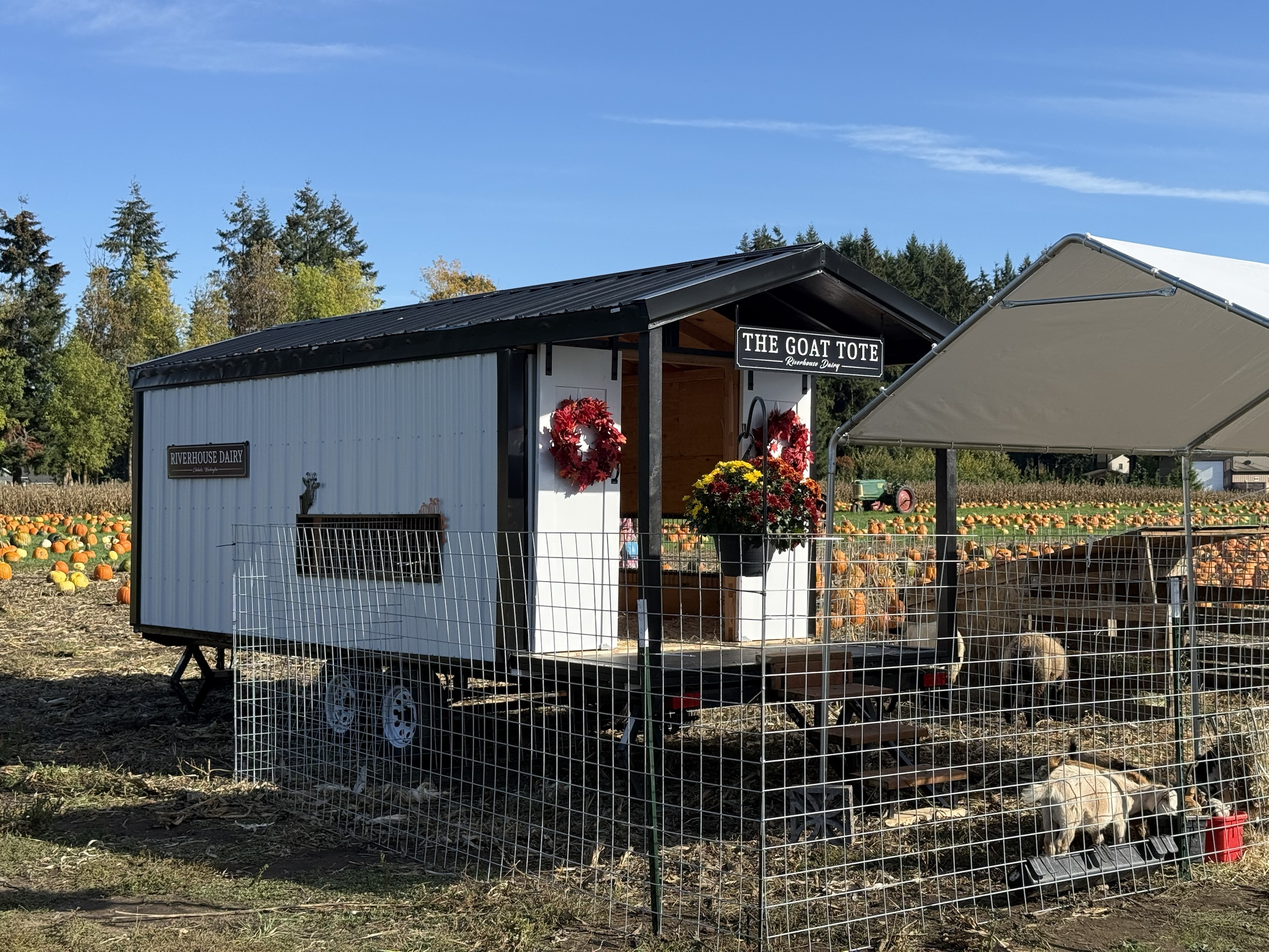
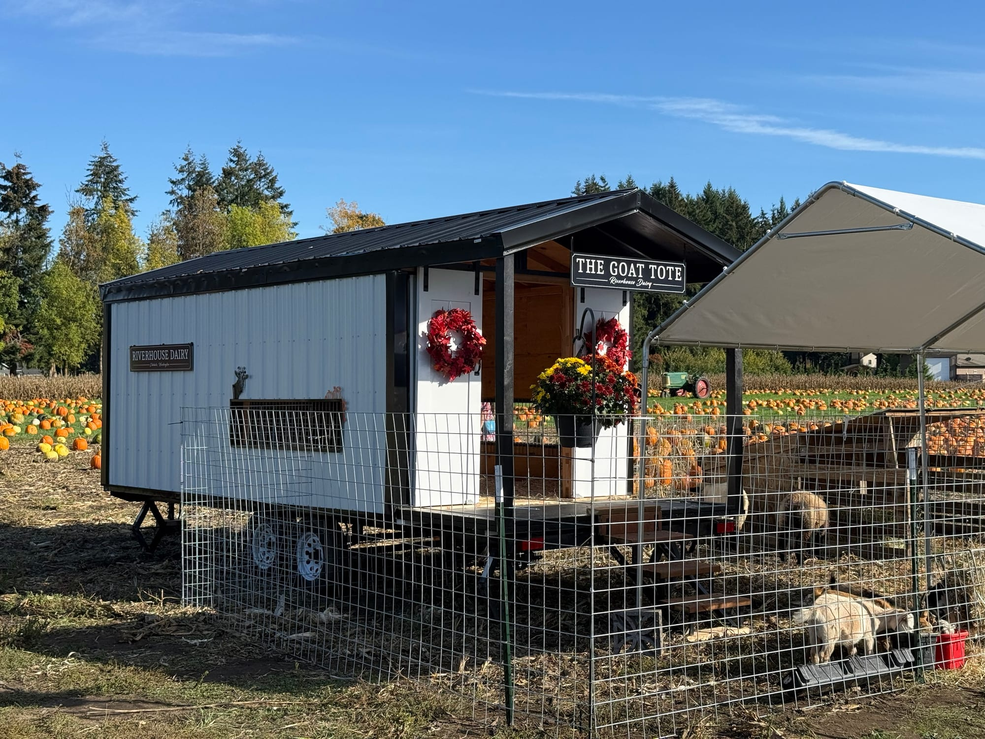
Show the finished dairy building shell and move opening to June 2027
Adds a Dairy Progress section with two photos of the new building,
updates every Summer 2026 sales date to June 2027, and adds a Fall 2026
milestone to the About page roadmap. Also shrinks the Goat Tote photo.

Claude-Session: https://claude.ai/code/session_01YWHqMjND1Emy3dRdWk4zX2

Changed region(s): [[0.0, 0.552, 0.093, 0.6133]]

diff --git a/src/app/page.tsx b/src/app/page.tsx
@@ -40,7 +40,7 @@ export default function HomePage() {
               {/* Sub-copy */}
               <p className="mt-8 text-lg text-white/80 max-w-md leading-relaxed">
                 Small herd. Clean protocols. Washington State raw milk
-                licensing in progress — sales open Summer 2026.
+                licensing in progress — sales planned for June 2027.
               </p>
 
               {/* CTA */}
@@ -267,6 +267,47 @@ export default function HomePage() {
       </section>
 
       {/* ══════════════════════════════════════
+          DAIRY BUILDING — construction progress
+          ══════════════════════════════════════ */}
+      <section className="bg-cream">
+        <div className="mx-auto max-w-6xl px-8 sm:px-12 lg:px-16 py-24">
+          <div className="max-w-2xl">
+            <span className="text-xs font-bold uppercase tracking-[0.2em] text-plum">
+              Dairy Progress
+            </span>
+            <h2 className="text-4xl sm:text-5xl font-bold text-forest mt-2 leading-tight">
+              The dairy building{" "}<br className="hidden lg:inline" />shell is finished.
+            </h2>
+            <p className="mt-6 text-lg text-forest-600 leading-relaxed">
+              The walls and roof are up on our new dairy building. Next comes
+              the inside work: the milking parlor, milk room and everything
+              licensing requires. We expect to open in June 2027.
+            </p>
+          </div>
+          <div className="mt-12 grid gap-6 sm:grid-cols-5">
+            <div className="relative aspect-[4/3] sm:aspect-auto sm:col-span-3 rounded-xl overflow-hidden shadow-lg">
+              <Image
+                src="/images/farm/dairy-building-shell-side.jpeg"
+                alt="The new RiverHouse Dairy building: white metal siding with a black roof, behind a wood rail fence"
+                fill
+                className="object-cover"
+                sizes="(max-width: 640px) 100vw, 60vw"
+              />
+            </div>
+            <div className="relative aspect-[4/3] sm:aspect-[3/4] sm:col-span-2 rounded-xl overflow-hidden shadow-lg">
+              <Image
+                src="/images/farm/dairy-building-shell-road.jpeg"
+                alt="The new dairy building seen from the road across the pasture, with trees behind it"
+                fill
+                className="object-cover"
+                sizes="(max-width: 640px) 100vw, 40vw"
+              />
+            </div>
+          </div>
+        </div>
+      </section>
+
+      {/* ══════════════════════════════════════
           4. CTA — Forest band, inline
           ══════════════════════════════════════ */}
       <section className="bg-white">
@@ -274,7 +315,7 @@ export default function HomePage() {
           <div className="grid lg:grid-cols-2 gap-16 items-center">
             <div>
               <h2 className="text-4xl sm:text-5xl font-bold text-forest leading-tight">
-                Raw milk sales<br />open Summer 2026.
+                Raw milk sales<br />planned for June 2027.
               </h2>
               <p className="mt-5 text-lg text-forest-600 leading-relaxed max-w-md">
                 Farm pickup in Chehalis, WA. Retail and bulk supply to local
@@ -299,7 +340,7 @@ export default function HomePage() {
                 { stat: "80+", label: "Animals" },
                 { stat: "8", label: "Breeds" },
                 { stat: "1,157", label: "Miles for Lacaune" },
-                { stat: "2026", label: "Sales Launch" },
+                { stat: "2027", label: "Sales Launch" },
               ].map(({ stat, label }) => (
                 <div key={label} className="bg-white px-8 py-8">
                   <p className="text-4xl font-bold text-plum">{stat}</p>

diff --git a/src/app/community/page.tsx b/src/app/community/page.tsx
@@ -188,11 +188,11 @@ export default function CommunityPage() {
               <p className="mt-1 text-xs text-forest-600 text-center">Raw milk · Updates · Farm news</p>
             </div>
             <div>
-              <p className="text-sm font-bold uppercase tracking-[0.2em] text-plum">Raw Milk Coming 2026</p>
+              <p className="text-sm font-bold uppercase tracking-[0.2em] text-plum">Raw Milk Coming 2027</p>
               <h2 className="text-3xl font-bold text-forest mt-3">Get on the List</h2>
               <p className="mt-4 text-lg text-forest-600 leading-relaxed">
                 Raw goat milk year-round. Seasonal sheep milk. Washington State raw milk
-                licensing in progress — sales launch Summer 2026.
+                licensing in progress — sales planned for June 2027.
               </p>
               <p className="mt-3 text-base text-forest-600 leading-relaxed">
                 Sign up to be notified when products are available and tell us what

diff --git a/src/app/about/page.tsx b/src/app/about/page.tsx
@@ -283,7 +283,12 @@ export default function AboutPage() {
                 text: "10 pure Lacaune semen straws arriving — 5 each from two different rams. Building a foundation breeding program for dairy sheep in the Pacific Northwest.",
               },
               {
-                label: "2026",
+                label: "Fall 2026",
+                title: "Dairy Building Shell Complete",
+                text: "The walls and roof are up on our new dairy building. Now we finish the inside: milking parlor, milk room, and everything state licensing requires.",
+              },
+              {
+                label: "June 2027",
                 title: "Licensed Organic Micro Dairy",
                 text: "Working toward becoming a licensed organic micro dairy with raw milk, artisan cheese, yogurt, ice cream, and value-added body care products.",
               },

diff --git a/src/app/contact/page.tsx b/src/app/contact/page.tsx
@@ -57,7 +57,7 @@ export default function ContactPage() {
               </h2>
               <p className="mt-4 text-lg text-forest-600 leading-relaxed">
                 Raw goat milk year-round. Seasonal sheep milk. Washington State
-                raw milk licensing in progress — sales launch Summer 2026.
+                raw milk licensing in progress — sales planned for June 2027.
               </p>
               <p className="mt-4 text-base text-forest-600 leading-relaxed">
                 Sign up to get notified when products are available, receive

diff --git a/docs/raw-milk-positioning.md b/docs/raw-milk-positioning.md
@@ -12,7 +12,7 @@
 
 ### Licensing
 - WA State raw milk licensing: Application in progress
-- Target launch: Summer 2026
+- Target launch: June 2027 (updated Oct 2026; dairy building shell complete)
 
 ### Homepage Structure
 1. Hero — Raw goat & sheep milk, location, primary CTA: "Join the Raw Milk List"
